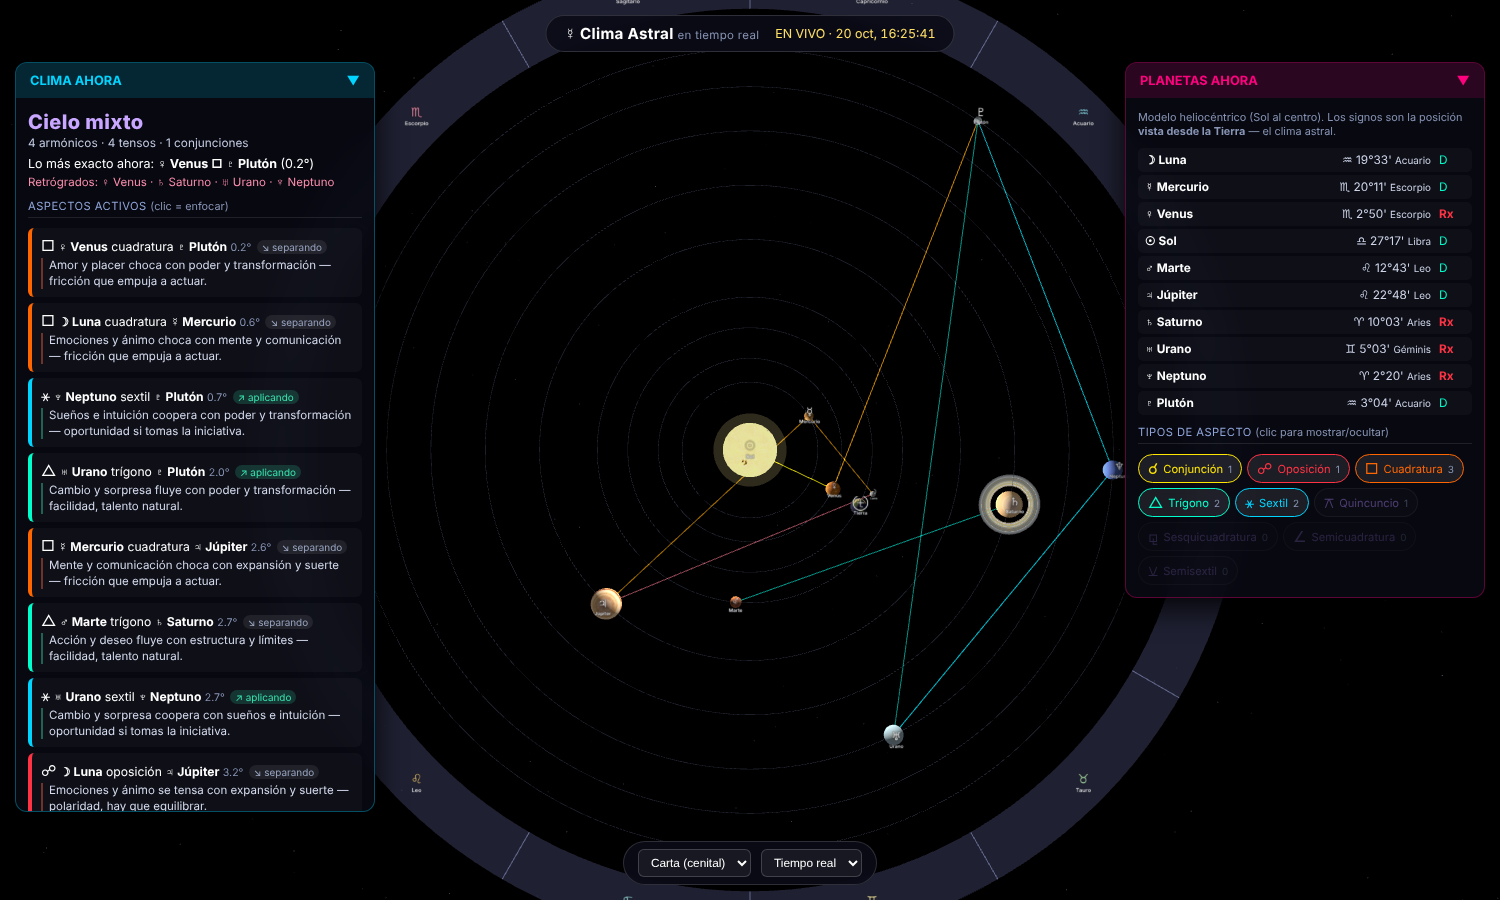
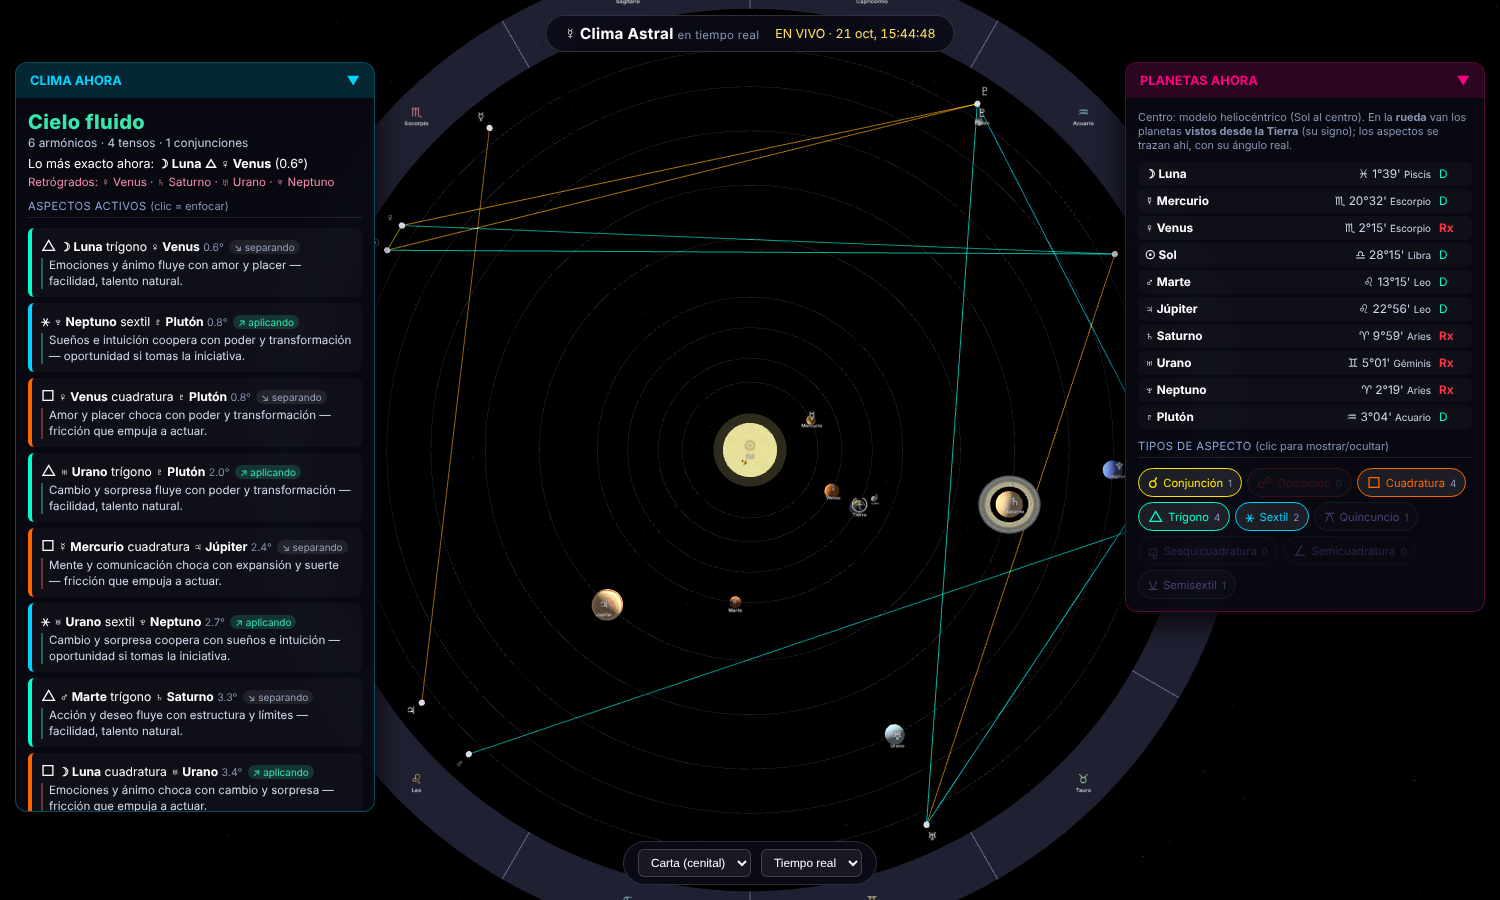
Clima Astral: marcar los planetas geocéntricos en la rueda y trazar ahí los aspectos
Combina ambos marcos de referencia (opción elegida por el usuario):
- El modelo central sigue heliocéntrico (Sol al centro, planetas orbitando).
- En la rueda exterior del zodiaco se marcan los planetas vistos desde la
  Tierra (su signo), con su glifo, actualizados en tiempo real.
- Las líneas de aspecto ahora se trazan entre esos marcadores geocéntricos,
  por lo que muestran el ÁNGULO ASTROLÓGICO REAL (un trígono a 120°, etc.),
  como en una carta. Antes conectaban los cuerpos heliocéntricos.
- Enfocar un planeta también atenúa los marcadores no relacionados.
- Nota en el panel y README aclarando los dos marcos.

Claude-Session: https://claude.ai/code/session_01N27gc3scisdW6ryiPPQq87

diff --git a/clima/js/scene.js b/clima/js/scene.js
@@ -12,8 +12,8 @@
   var GLYPH_FONT = '"Noto Sans Symbols2","Segoe UI Symbol","Apple Symbols",serif';
 
   var scene, camera, renderer, controls, container, loader;
-  var sunMesh, moonMesh, zodiacGroup, orbitsGroup, aspectGroup, starField, sunLight;
-  var planetObjs = {}, aspectLines = [], pickables = [];
+  var sunMesh, moonMesh, zodiacGroup, orbitsGroup, aspectGroup, geoGroup, starField, sunLight;
+  var planetObjs = {}, geoMarkers = {}, aspectLines = [], pickables = [];
   var raycaster, pointer = new THREE.Vector2(), hoverName = null, focusName = null;
   var moonGeoLon = 0, moonCur = 0;
   var cbs = { onHover: function () {}, onSelect: function () {} };
@@ -33,6 +33,7 @@
   var SUN = { size: 8, tex: 'sun.jpg', fb: 0xffcc55 };
   var MOON = { radius: 5.5, size: 0.9, tex: 'moon.jpg', fb: 0xd8d8d8 };
   var Z_INNER = 130, Z_OUTER = 146;
+  var GEO_R = Z_INNER - 8; // radio de los marcadores geocéntricos (en la rueda)
 
   function applyTex(mat, file, fallback) {
     mat.color.set(fallback);
@@ -54,6 +55,18 @@
     var tx = new THREE.CanvasTexture(c); tx.anisotropy = 4;
     var sp = new THREE.Sprite(new THREE.SpriteMaterial({ map: tx, transparent: true, depthTest: false }));
     sp.renderOrder = 6; return sp;
+  }
+
+  // Sprite de solo glifo (para los marcadores del zodiaco).
+  function glyphSprite(glyph, color) {
+    var c = document.createElement('canvas'); c.width = 128; c.height = 128;
+    var ctx = c.getContext('2d');
+    ctx.font = '92px ' + GLYPH_FONT; ctx.textAlign = 'center'; ctx.textBaseline = 'middle';
+    ctx.shadowColor = 'rgba(0,0,0,0.95)'; ctx.shadowBlur = 6; ctx.fillStyle = color;
+    ctx.fillText(glyph + VS, 64, 66);
+    var tx = new THREE.CanvasTexture(c); tx.anisotropy = 4;
+    var sp = new THREE.Sprite(new THREE.SpriteMaterial({ map: tx, transparent: true, depthTest: false }));
+    sp.renderOrder = 7; return sp;
   }
 
   function onPlane(lonDeg, radius, y) {
@@ -80,7 +93,7 @@
 
     scene.add(new THREE.AmbientLight(0xffffff, 0.22)); // tenue: el Sol ilumina
 
-    buildStars(); buildSun(); buildZodiac();
+    buildStars(); buildSun(); buildZodiac(); buildGeoMarkers();
     orbitsGroup = new THREE.Group(); scene.add(orbitsGroup);
     aspectGroup = new THREE.Group(); scene.add(aspectGroup);
     buildPlanets();
@@ -135,6 +148,22 @@
     scene.add(zodiacGroup);
   }
 
+  // Marcadores geocéntricos: dónde está cada astro visto DESDE LA TIERRA (su
+  // signo). Van sobre la rueda; las líneas de aspecto se trazan entre ellos, así
+  // que muestran el ángulo astrológico real.
+  function buildGeoMarkers() {
+    geoGroup = new THREE.Group(); scene.add(geoGroup);
+    Astro.BODIES.forEach(function (name) {
+      var disc = new THREE.Mesh(new THREE.SphereGeometry(0.9, 16, 16),
+        new THREE.MeshBasicMaterial({ color: 0xdfe6ff }));
+      disc.userData = { planet: name };
+      geoGroup.add(disc); pickables.push(disc);
+      var g = glyphSprite(Data.glyph(name), '#ffffff'); g.scale.set(4.6, 4.6, 1);
+      geoGroup.add(g);
+      geoMarkers[name] = { disc: disc, label: g, curLon: 0, targetLon: 0 };
+    });
+  }
+
   function makeRing(file, inner, outer) {
     var geo = new THREE.RingGeometry(inner, outer, 96);
     var pos = geo.attributes.position, uv = geo.attributes.uv, v3 = new THREE.Vector3();
@@ -177,19 +206,19 @@
   }
 
   // ---------------- API ----------------
-  // helio: {planetaES: longitud heliocéntrica}; moonLon: longitud geocéntrica de la Luna.
+  // helio: {planetaES: lon heliocéntrica} para el modelo; geo: {astro: lon
+  // geocéntrica} para los marcadores de la rueda; moonLon: lon geocéntrica Luna.
   function setPositions(helio, moonLon) {
     Object.keys(planetObjs).forEach(function (n) { if (helio[n] != null) planetObjs[n].targetLon = helio[n]; });
     if (moonLon != null) moonGeoLon = moonLon;
     if (sunLight) sunLight.position.set(0, 0, 0);
   }
+  function setGeo(geoLons) {
+    Object.keys(geoMarkers).forEach(function (n) { if (geoLons[n] != null) geoMarkers[n].targetLon = geoLons[n]; });
+  }
 
   function endpoint(name) {
-    return function () {
-      if (name === 'Sol') return sunMesh.position;
-      if (name === 'Luna') return moonMesh ? moonMesh.position : null;
-      return planetObjs[name] ? planetObjs[name].mesh.position : null;
-    };
+    return function () { return geoMarkers[name] ? geoMarkers[name].disc.position : null; };
   }
 
   function setAspectLines(specs) {
@@ -224,6 +253,13 @@
       var nm = m.userData.planet;
       var rel = !focusName || nm === focusName || relatedToFocus(nm);
       m.material.transparent = !rel; m.material.opacity = rel ? 1 : 0.22;
+    });
+    // Marcadores de la rueda.
+    Object.keys(geoMarkers).forEach(function (nm) {
+      var mk = geoMarkers[nm];
+      var rel = !focusName || nm === focusName || relatedToFocus(nm);
+      mk.disc.material.transparent = !rel; mk.disc.material.opacity = rel ? 1 : 0.2;
+      mk.label.material.opacity = rel ? 1 : 0.2;
     });
   }
   function relatedToFocus(n) {
@@ -266,6 +302,15 @@
     if (sunMesh) sunMesh.rotation.y += 0.0012;
     if (starField) starField.rotation.y += 0.00004;
 
+    // Marcadores geocéntricos sobre la rueda.
+    Object.keys(geoMarkers).forEach(function (n) {
+      var m = geoMarkers[n];
+      m.curLon += shortest(m.targetLon * R, m.curLon) * 0.14;
+      var cx = Math.cos(m.curLon), cz = Math.sin(m.curLon);
+      m.disc.position.set(GEO_R * cx, 0, GEO_R * cz);
+      m.label.position.set((GEO_R + 3.6) * cx, 1.2, (GEO_R + 3.6) * cz);
+    });
+
     var tp = performance.now() * 0.0022;
     aspectLines.forEach(function (al) {
       var p1 = al.getA(), p2 = al.getB(); if (!p1 || !p2) return;
@@ -283,7 +328,7 @@
   }
 
   window.Scene = {
-    init: init, setPositions: setPositions, setAspectLines: setAspectLines,
+    init: init, setPositions: setPositions, setGeo: setGeo, setAspectLines: setAspectLines,
     highlightAspect: highlightAspect, setFocus: setFocus, setCameraMode: setCameraMode
   };
 })();

diff --git a/clima/js/app.js b/clima/js/app.js
@@ -145,7 +145,7 @@
     if (state.speed === 'realtime') state.simTime = new Date();
     else state.simTime = new Date(state.simTime.getTime() + SPEED_DAYS[state.speed] * dt * 86400000);
     sky = compute(state.simTime);
-    Scene.setPositions(sky.helio, sky.pos.Luna);
+    Scene.setPositions(sky.helio, sky.pos.Luna); Scene.setGeo(sky.pos);
     // Paneles: refrescar cada ~1.5 s (son cálculos ligeros, pero evitamos parpadeo).
     if (++counter % 3 === 0 || state.speed !== 'realtime') render();
     updateClock();
@@ -177,7 +177,7 @@
   function init() {
     Scene.init($('canvas-container'), { onHover: onHover, onSelect: onSelect });
     sky = compute(state.simTime);
-    Scene.setPositions(sky.helio, sky.pos.Luna);
+    Scene.setPositions(sky.helio, sky.pos.Luna); Scene.setGeo(sky.pos);
     render(); updateClock();
 
     $('cam-select').addEventListener('change', function () { Scene.setCameraMode(this.value); });

diff --git a/clima/index.html b/clima/index.html
@@ -31,7 +31,7 @@
   <div id="right-panel" class="ui-window">
     <div class="panel-header header-right"><span>PLANETAS AHORA</span><span class="chev">▼</span></div>
     <div class="panel-content">
-      <div class="hint">Modelo heliocéntrico (Sol al centro). Los signos son la posición <b>vista desde la Tierra</b> — el clima astral.</div>
+      <div class="hint">Centro: modelo heliocéntrico (Sol al centro). En la <b>rueda</b> van los planetas <b>vistos desde la Tierra</b> (su signo); los aspectos se trazan ahí, con su ángulo real.</div>
       <div id="planet-list" class="glyphs"></div>
       <div class="section-title">Tipos de aspecto <span class="hint2">(clic para mostrar/ocultar)</span></div>
       <div id="chips" class="glyphs"></div>

diff --git a/clima/README.md b/clima/README.md
@@ -9,10 +9,11 @@ forman los planetas **vistos desde la Tierra** (geocéntrico), en tiempo real.
 **Sin carta natal, sin fechas, sin formularios.** Solo abres y ves el clima.
 
 > El **modelo 3D** es heliocéntrico (como el de la NASA): el Sol va al centro y
-> los planetas giran a su alrededor. El **clima** (los signos y aspectos de los
-> paneles) es geocéntrico, porque la astrología mide el cielo *visto desde la
-> Tierra*. Por eso la posición 3D de un planeta y su signo no coinciden: son dos
-> marcos de referencia distintos, cada uno correcto.
+> los planetas giran a su alrededor. En la **rueda exterior** se marcan los
+> planetas *vistos desde la Tierra* (su signo), y las **líneas de aspecto se
+> trazan entre esos marcadores**, así que muestran el ángulo astrológico real
+> (un trígono se ve a 120°, como en una carta). Así conviven el sistema solar
+> real y la lectura astrológica, cada uno en su marco.
 
 ![vista](preview.png)
 
